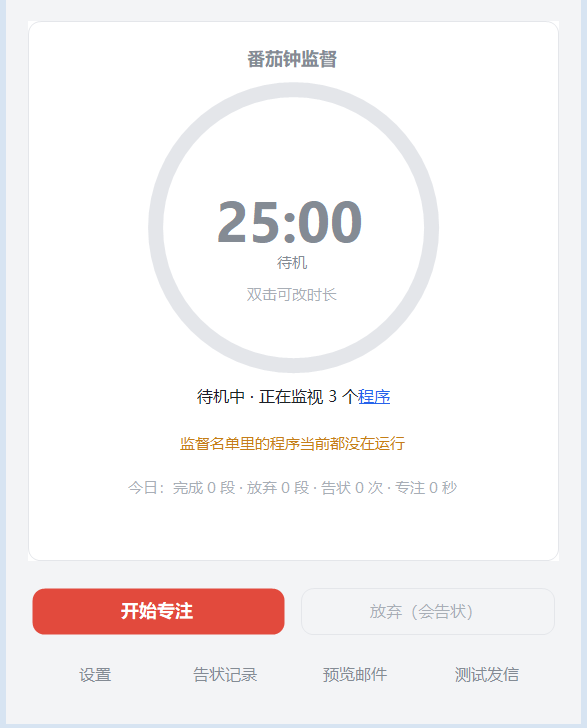
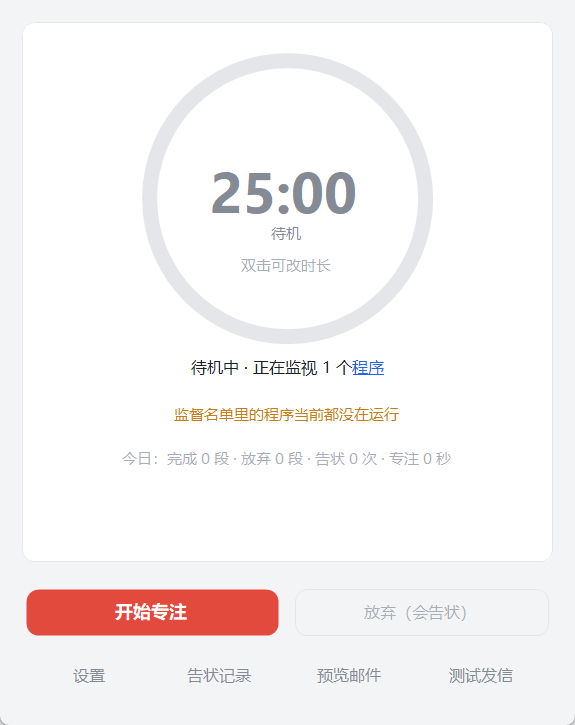
fix: 署名隐私修正只作用于新配置（撤掉那次一次性迁移）+ 界面两处修正
按"零用户就不必做存量迁移"的决定，把上一版加进来的 v2 → v3 配置迁移整段撤掉：
- src/Settings.cs：Settings.Version 回到 2（默认署名仍是 Settings.DefaultUserName，即 "user"）；
- src/Store.cs：删掉 `if (s.Version < 3)` 那段"署名 == 本机账户名就改成 user"的清理，
  留注释写明决定与理由（以后真要清理存量再加）；
- src/SelfTest.cs：删掉只为那段迁移写的断言 v2-username-default-migration；
  settings-defaults 继续守住"默认署名 = user、不读 Environment.UserName"。

隐私效果不变：新配置的默认署名是 user，不会把 Windows 账户名跟着告状邮件发出去；
已有配置一律不动，自己填过的署名（比如「wyy」）保持原样。

界面：
- 主窗口去掉时间圆环上方重复的「番茄钟监督」标题（标题栏已有名字与版本号）；
- 「打开数据文件夹」连点不再叠开多个资源管理器窗口：FlatButton 去掉 StandardClick /
  StandardDoubleClick，处理函数加 800ms 去重窗口，改用 UseShellExecute 交给系统 Shell；
- README 顶部截图换成去掉标题后的新版主界面。

文档：AGENTS.md 记下"刻意不做存量清理"的原因与「打开数据文件夹」的实现要点；
CHANGELOG 的隐私条目改为只讲新配置默认值。

回归：--selftest 64 / --smoketest 26 / --dpicheck 13 / --rendertest 30 / --realsmoke 7
全部通过（exit 0），--loadcheck 加载真实旧配置通过。

diff --git a/src/SelfTest.cs b/src/SelfTest.cs
@@ -146,8 +146,10 @@ namespace PomoCC
                 // 1. 默认配置
                 Settings def = Settings.Defaults();
                 Check(sb, "settings-defaults",
-                    def.FocusMinutes == 25 && def.SampleSeconds == 5 && def.Rules != null,
-                    string.Format("专注 {0} 分钟，采样 {1} 秒", def.FocusMinutes, def.SampleSeconds), ref fail);
+                    def.FocusMinutes == 25 && def.SampleSeconds == 5 && def.Rules != null
+                    && def.UserName == Settings.DefaultUserName && def.UserName == "user",
+                    string.Format("专注 {0} 分钟，采样 {1} 秒，默认署名={2}",
+                        def.FocusMinutes, def.SampleSeconds, def.UserName), ref fail);
 
                 // 2. 配置往返（含规则表）
                 def.SupervisorEmail = "boss@example.com";
@@ -2258,7 +2260,11 @@ namespace PomoCC
                 shim.Dispose();
 
                 // 再把四个真实窗口整体渲染，扫「未绘制区域」
-                CheckWindow(sb, new MainForm(), "mainform", true, ref fail);
+                MainForm mainForm = new MainForm();
+                Check(sb, "mainform-no-timer-title",
+                    !HasLabelText(mainForm, "番茄钟监督"),
+                    "时间圆环上方不再显示重复的产品名", ref fail);
+                CheckWindow(sb, mainForm, "mainform", true, ref fail);
                 CheckWindow(sb, new SettingsForm(Store.LoadSettings()), "settingsform", true, ref fail);
                 AppPickerForm pickerForm = new AppPickerForm(3);
                 // 默认用真实枚举结果；POMOCC_TEST_EMPTY_APP_LIST=1 时模拟"枚举不到程序"，
@@ -2602,6 +2608,17 @@ namespace PomoCC
                 if (found != null) return found;
             }
             return null;
+        }
+
+        private static bool HasLabelText(Control root, string text)
+        {
+            Label label = root as Label;
+            if (label != null && label.Text == text) return true;
+            foreach (Control c in root.Controls)
+            {
+                if (HasLabelText(c, text)) return true;
+            }
+            return false;
         }
 
         private const int WM_PRINT = 0x0317;

diff --git a/src/SettingsForm.cs b/src/SettingsForm.cs
@@ -53,6 +53,7 @@ namespace PomoCC
 
         // 底部按钮行上的署名（版本号 + 作者链接）
         private LinkLabel lnkAuthor;
+        private DateTime lastDataFolderOpenUtc = DateTime.MinValue;
 
         /// <summary>供自检：署名区的版本号与作者链接信息。</summary>
         internal string CreditInfo
@@ -448,11 +449,7 @@ namespace PomoCC
             FlatButton pw = MakeButton("修改密码", FlatButton.Kind.Secondary, 100);
             pw.Click += delegate { ChangePassword(); };
             FlatButton open = MakeButton("打开数据文件夹", FlatButton.Kind.Secondary, 132);
-            open.Click += delegate
-            {
-                try { System.Diagnostics.Process.Start("explorer.exe", "\"" + Store.Dir + "\""); }
-                catch { }
-            };
+            open.Click += delegate { OpenDataFolder(); };
             Ui.Add(other, Ui.ButtonRow(pw, open));
             Ui.AddCard(pageContent, cardOther);
 
@@ -533,6 +530,31 @@ namespace PomoCC
             FlatButton b = new FlatButton(text, kind);
             b.Width = width;
             return b;
+        }
+
+        /// <summary>
+        /// 打开数据目录。按钮事件若因 WinForms 消息重复到达，短时间内只允许启动一次外壳进程。
+        /// 直接把目录交给 Shell，避免手动拼接 explorer.exe 参数造成额外窗口行为。
+        /// </summary>
+        private void OpenDataFolder()
+        {
+            DateTime now = DateTime.UtcNow;
+            if ((now - lastDataFolderOpenUtc).TotalMilliseconds < 800) return;
+            lastDataFolderOpenUtc = now;
+
+            try
+            {
+                System.Diagnostics.Process.Start(new System.Diagnostics.ProcessStartInfo
+                {
+                    FileName = Store.Dir,
+                    UseShellExecute = true
+                });
+            }
+            catch
+            {
+                // 保留原行为：打开失败不打断设置窗口；失败后允许下次点击重试。
+                lastDataFolderOpenUtc = DateTime.MinValue;
+            }
         }
 
         private FlatButton NavButton(string text, EventHandler onClick)

diff --git a/src/Store.cs b/src/Store.cs
@@ -372,13 +372,18 @@ namespace PomoCC
                 s.Version = 2;
             }
 
+            // 注意：这里**没有**「把旧的默认署名（本机账户名）改成 user」的迁移。
+            // v0.2.0 发布时还没有任何用户，所以只把新配置的默认值改成 Settings.DefaultUserName，
+            // 已有配置一律不动 —— 少一段只跑一次、还要靠 Version 号兜底的迁移逻辑。
+            // 真到了需要清理存量配置的时候，再加 Version < 3 的迁移。
+
             if (s.FocusMinutes <= 0) s.FocusMinutes = d.FocusMinutes;
             if (s.ViolationSeconds <= 0) s.ViolationSeconds = d.ViolationSeconds;
             if (s.SampleSeconds <= 0) s.SampleSeconds = d.SampleSeconds;
             if (string.IsNullOrEmpty(s.SendMode)) s.SendMode = d.SendMode;
             if (string.IsNullOrEmpty(s.SmtpHost)) s.SmtpHost = d.SmtpHost;
             if (s.SmtpPort <= 0) s.SmtpPort = d.SmtpPort;
-            if (string.IsNullOrEmpty(s.UserName)) s.UserName = d.UserName;
+            if (string.IsNullOrEmpty(s.UserName)) s.UserName = Settings.DefaultUserName;
 
             // 旧版「一串进程名」自动迁移成带规则时长的规则表，不丢用户已填的名字
             if (s.Rules.Count == 0 && s.WatchList.Count > 0)

diff --git a/src/Settings.cs b/src/Settings.cs
@@ -78,6 +78,9 @@ namespace PomoCC
     /// <summary>全部用户设置。密码/授权码只以加密或散列形式落盘。</summary>
     public class Settings
     {
+        /// <summary>新配置的默认署名，不读取 Windows 账户名，避免把本机用户名带进邮件。</summary>
+        public const string DefaultUserName = "user";
+
         public int Version { get; set; }
         public string UserName { get; set; }
         public string SupervisorEmail { get; set; }
@@ -119,7 +122,7 @@ namespace PomoCC
         {
             Settings s = new Settings();
             s.Version = 2;
-            s.UserName = Environment.UserName;
+            s.UserName = DefaultUserName;
             s.SupervisorEmail = "";
             s.SendMode = "smtp";
             s.SenderEmail = "";

diff --git a/src/Ui.cs b/src/Ui.cs
@@ -134,8 +134,7 @@ namespace PomoCC
             Font = kind == Kind.Primary ? Theme.ButtonStrong : Theme.Button;
             SetStyle(ControlStyles.AllPaintingInWmPaint | ControlStyles.OptimizedDoubleBuffer |
                      ControlStyles.UserPaint | ControlStyles.ResizeRedraw |
-                     ControlStyles.Selectable | ControlStyles.StandardClick |
-                     ControlStyles.StandardDoubleClick | ControlStyles.SupportsTransparentBackColor, true);
+                     ControlStyles.Selectable | ControlStyles.SupportsTransparentBackColor, true);
             BackColor = Color.Transparent;
             Cursor = Cursors.Hand;
             TabStop = true;

diff --git a/src/MainForm.cs b/src/MainForm.cs
@@ -99,15 +99,6 @@ namespace PomoCC
             cardStack.Dock = DockStyle.Fill;
             main.Controls.Add(cardStack);
 
-            Label title = new Label();
-            title.Text = "番茄钟监督";
-            title.Font = Theme.SectionTitle;
-            title.ForeColor = Theme.SubText;
-            title.TextAlign = ContentAlignment.MiddleCenter;
-            title.AutoSize = false;
-            title.Height = 24;
-            Ui.Add(cardStack, title);
-
             dial = new TimerDial();
             dial.Height = 240;
             dial.HintText = "双击可改时长";

diff --git a/src/Mailer.cs b/src/Mailer.cs
@@ -64,7 +64,7 @@ namespace PomoCC
             }
 
             string text = template;
-            text = text.Replace("{名字}", string.IsNullOrEmpty(s.UserName) ? Environment.UserName : s.UserName);
+            text = text.Replace("{名字}", string.IsNullOrEmpty(s.UserName) ? Settings.DefaultUserName : s.UserName);
             text = text.Replace("{时间}", when.ToString("yyyy-MM-dd HH:mm"));
             text = text.Replace("{日期}", when.ToString("M月d日"));
             text = text.Replace("{时刻}", when.ToString("HH:mm"));

diff --git a/AGENTS.md b/AGENTS.md
@@ -434,6 +434,8 @@ Re-v0.2 复审收尾新增（同样在 `SelfTest.cs`）：
 | `settings-sound-row-aligned` | 复选框文字与「提示音」链接**垂直居中对齐**（容差 1px）、同一行、链接在右边 |
 | `settings-content-buttons-uniform` | 同一行按钮**等高、同一水平线、上下都留了白**（用户要求"统一、别太挤"） |
 | `sound-clip-valid` / `sound-played-is-ours` | 合成的提示音是合法 PCM（时长/峰值不削顶）、且完成提醒响的就是这一声 |
+| `settings-defaults` | 默认署名是 `Settings.DefaultUserName`（`user`），**不读** `Environment.UserName`（不做存量迁移，见「关键实现细节」） |
+| `mainform-no-timer-title` | 时间圆环上方不再有重复的「番茄钟监督」标签（渲染自检里连窗口一起扫） |
 
 ### 测试对环境的要求（DPAPI 与用户配置文件）
 
@@ -506,6 +508,15 @@ Re-v0.2 复审收尾新增（同样在 `SelfTest.cs`）：
   两个开关 `Settings.NotifyOnComplete` / `NotifySound` 默认开，可在「规则与其他」页关掉。
   配置 **v1 → v2** 迁移要注意：老配置里没有这两个 bool 字段，反序列化后是 false（等于关），
   `Store.Normalize` 里按 `Version < 2` 显式补成 true，否则老用户升级后提醒会**静默失效**。
+  署名默认值（隐私修正）：v2 及更早的 `Settings.Defaults()` 拿 `Environment.UserName`
+  （本机账户名）当默认署名，会把本机用户名跟着告状邮件发出去；现在用
+  `Settings.DefaultUserName`（`user`）。**刻意不做存量清理**：v0.2.0 发布时还没有用户，
+  所以已有配置一律不动，`Store.Normalize` 里**没有** `Version < 3` 的迁移
+  —— 省掉一段"只跑一次、还要靠版本号兜底"的逻辑；真要清理存量时再加（`Settings.Version` 仍是 2）。
+- **「打开数据文件夹」只开一个窗口**：`FlatButton` 去掉了 `StandardClick` /
+  `StandardDoubleClick` 两个 ControlStyles（自绘控件自己处理点击语义，留着它们会让点击事件
+  重复到达），按钮处理函数 `OpenDataFolder()` 里再加 800ms 去重窗口，并用 `UseShellExecute`
+  把目录交给 Shell 打开，不再自己拼 `explorer.exe` 参数；打开失败会复位去重窗口以便重试。
 - **发送不阻塞界面**：邮件在线程池发送，结果通过事件回到界面（`BeginInvoke`）并用托盘气泡提示；
   失败时邮件全文保留在记录里，可手动补发。
 - **密码门禁**：退出、打开设置都需要密码；首运行引导设置（取消则用默认 `123456` 并明确告知）。

diff --git a/CHANGELOG.md b/CHANGELOG.md
@@ -71,6 +71,16 @@
 - **程序图标修正**：之前构建出的 exe 里，图标颜色是错的（品牌红变成纯红、叶子变成灰）——
   生成 ICO 时用的那条路径把帧降成了 4 位色却仍按 32bpp 声明。现在改成自己编码 32bpp/PNG 帧，
   并且生成器会**校验自己的输出**（颜色不对就让构建失败）。
+- 主窗口去掉时间圆环上方重复的「番茄钟监督」标题（标题栏上已经有名字和版本号了），
+  内容整体上移一点、不再有两行"标题"。
+- 「打开数据文件夹」连点不再叠开多个资源管理器窗口（按钮点击不再重复触发，
+  并且交给系统 Shell 打开目录而不是自己拼 `explorer.exe` 参数）。
+
+### 隐私
+- **署名默认值不再取 Windows 账户名**：新配置的默认署名是 `user`。
+  之前默认填的是 Windows 账户名，会把 `C:\Users\<你的用户名>` 里的用户名跟着告状邮件发出去。
+  已有配置**不会被改动** —— 发布时还没有用户，就不为它加一段"只跑一次"的清理迁移；
+  自己填过的署名（比如「wyy」）保持原样。
 
 ### 其它
 - 设置窗口底部显示版本号与作者链接（点击打开本仓库）。
